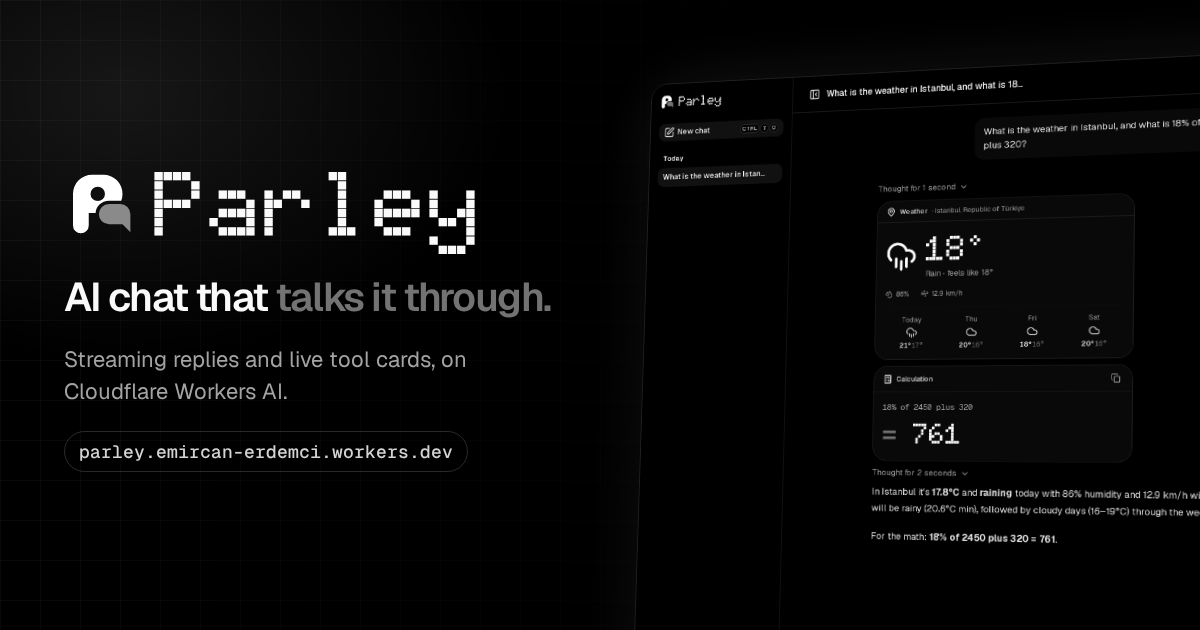
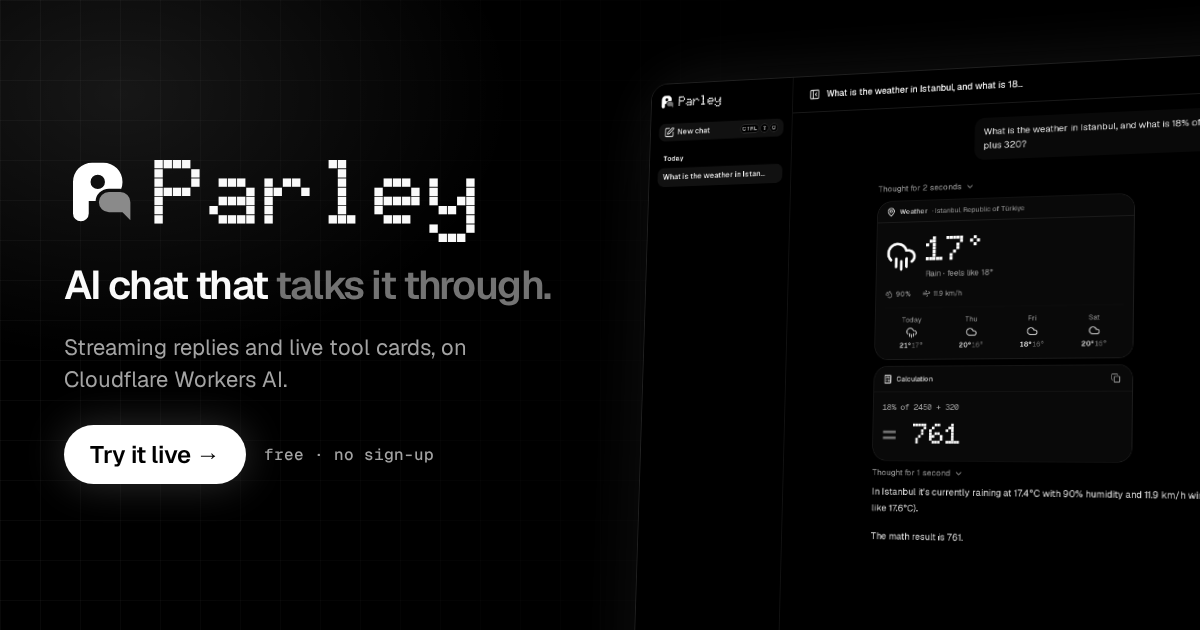
Link previews: shorter description and a call to action on og.png
Description is now 114 characters so previews don't truncate it on
mobile, and the OG image carries a "Try it live" button.

diff --git a/nuxt.config.ts b/nuxt.config.ts
@@ -2,7 +2,8 @@
 const SITE = {
   url: 'https://parley.emircan-erdemci.workers.dev',
   title: 'Parley · AI chat with live tool cards',
-  description: 'An AI chat with streaming replies and live tool cards for weather, maths and time. Built with Nuxt 4 and Nuxt UI on Cloudflare Workers AI.',
+  // Under ~125 characters so link previews don't truncate it on mobile.
+  description: 'Streaming AI chat with live tool cards for weather, maths and time. Free to try, built with Nuxt UI on Cloudflare.',
   imageAlt: 'Parley: AI chat that talks it through'
 }
 
